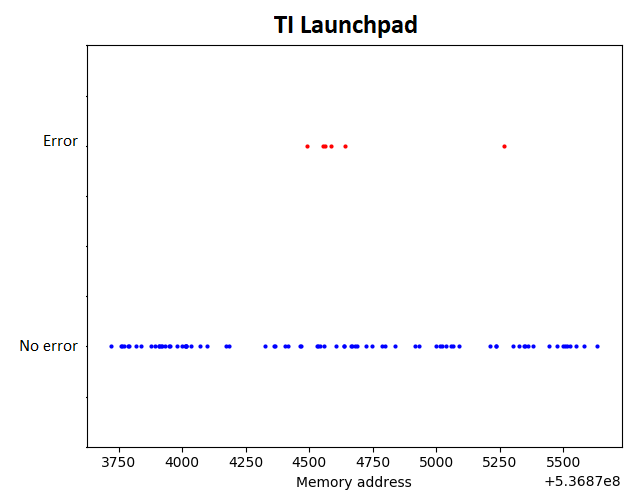
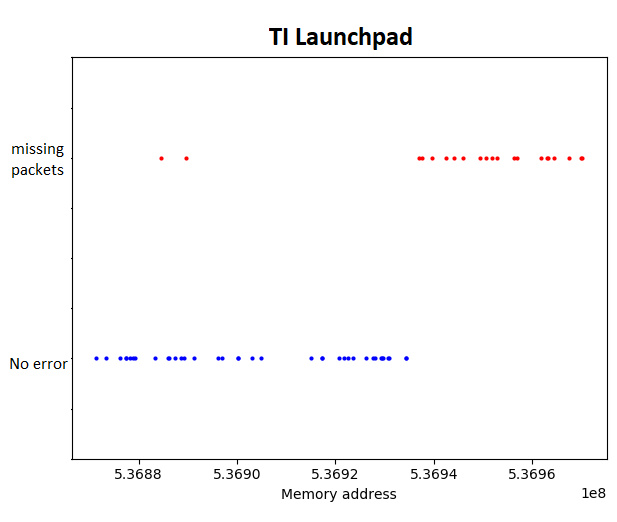
TI error graphs

diff --git a/fault_injection/error_graphs.py b/fault_injection/error_graphs.py
@@ -5,11 +5,16 @@ import matplotlib.pyplot as plt
 import numpy as np
 
 # Loading .json files
+
+# ---- ADB DATA ----
 # json_data_errors = r"address_logs/data_errors.json".replace('\\', '/')
 # json_missing_hk_packets = r"address_logs/missing_hk_packets.json".replace('\\', '/')
-json_missing_ft_packets = r"address_logs/missing_ft_packets.json".replace('\\', '/')
-json_no_errors = r"address_logs/no_errors.json".replace('\\', '/')
+# json_missing_ft_packets = r"address_logs/missing_ft_packets.json".replace('\\', '/')
+# json_no_errors = r"address_logs/no_errors.json".replace('\\', '/')
 
+# --- TI Board DATA ---
+json_missing_packets = r"address_logs/missing_packets_ti.json".replace('\\', '/')
+json_no_errors = r"address_logs/no_errors_ti.json".replace('\\', '/')
 
 plt.xlabel('Memory address')
 plt.ylabel('Error')
@@ -20,13 +25,13 @@ plt.ylim(top = 1.5)
 
 no_errors = json.load(open(json_no_errors.replace('\\', '/')))
 # data_errors = json.load(open(json_data_errors.replace('\\', '/')))
-missing_ft_packets = json.load(open(json_missing_ft_packets.replace('\\', '/')))
+missing_packets = json.load(open(json_missing_packets.replace('\\', '/')))
 # missing_hk_packets = json.load(open(json_missing_hk_packets.replace('\\', '/')))
 
 # Plotting errors for different memory location
 # plt.scatter(data_errors, np.ones(len(data_errorss)), c='k', s=4)
 plt.scatter(no_errors, np.zeros(len(no_errors)), c='b', s=4)
-plt.scatter(missing_ft_packets, np.ones(len(missing_ft_packets)), c='r', s=4)
-print(len(no_errors)+len(missing_ft_packets))
+plt.scatter(missing_packets, np.ones(len(missing_packets)), c='r', s=4)
+print(len(no_errors)+len(missing_packets))
 
 plt.show()
